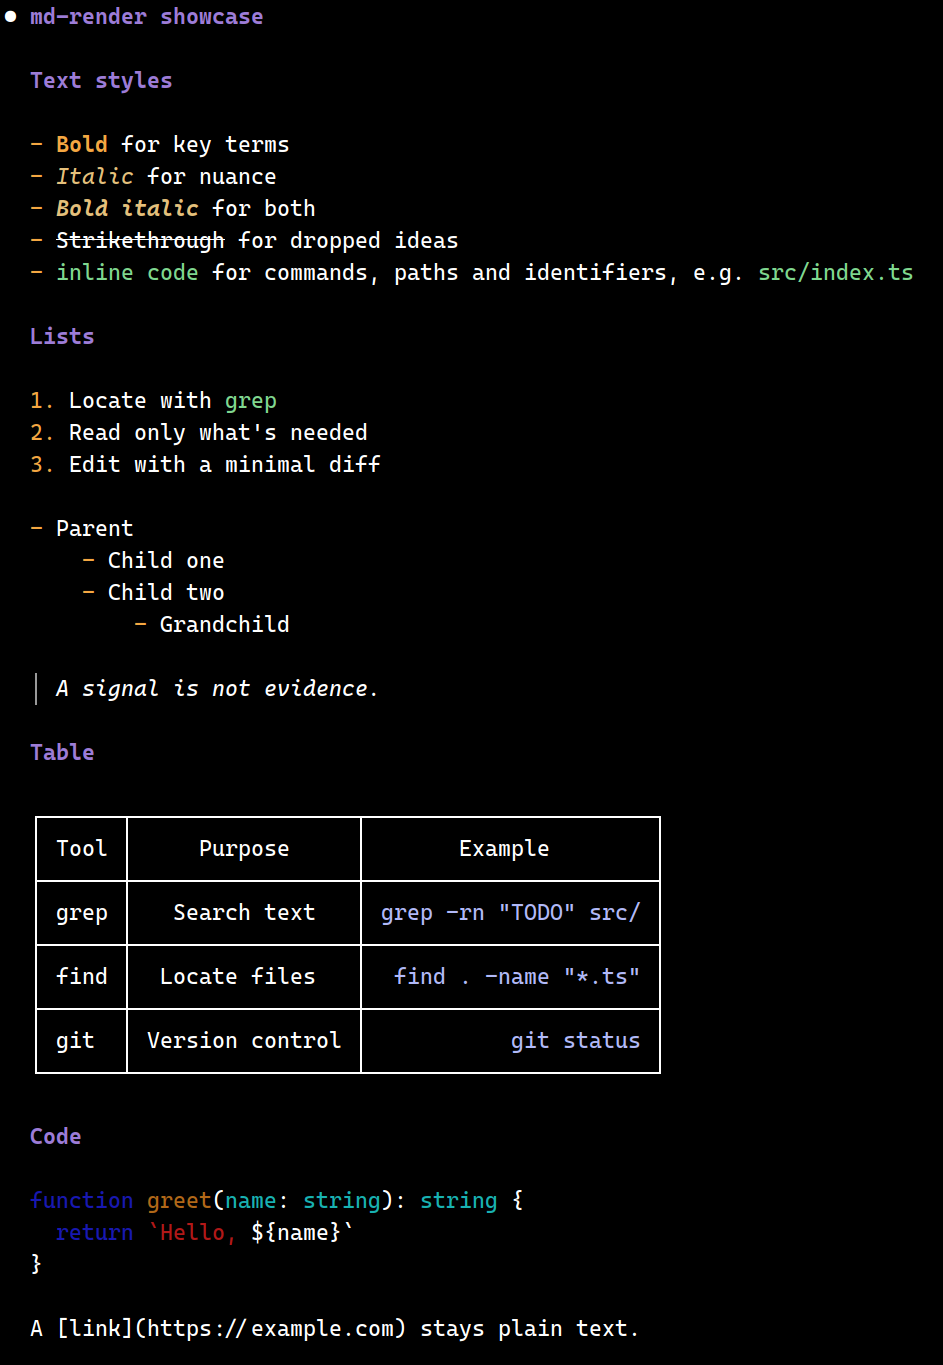
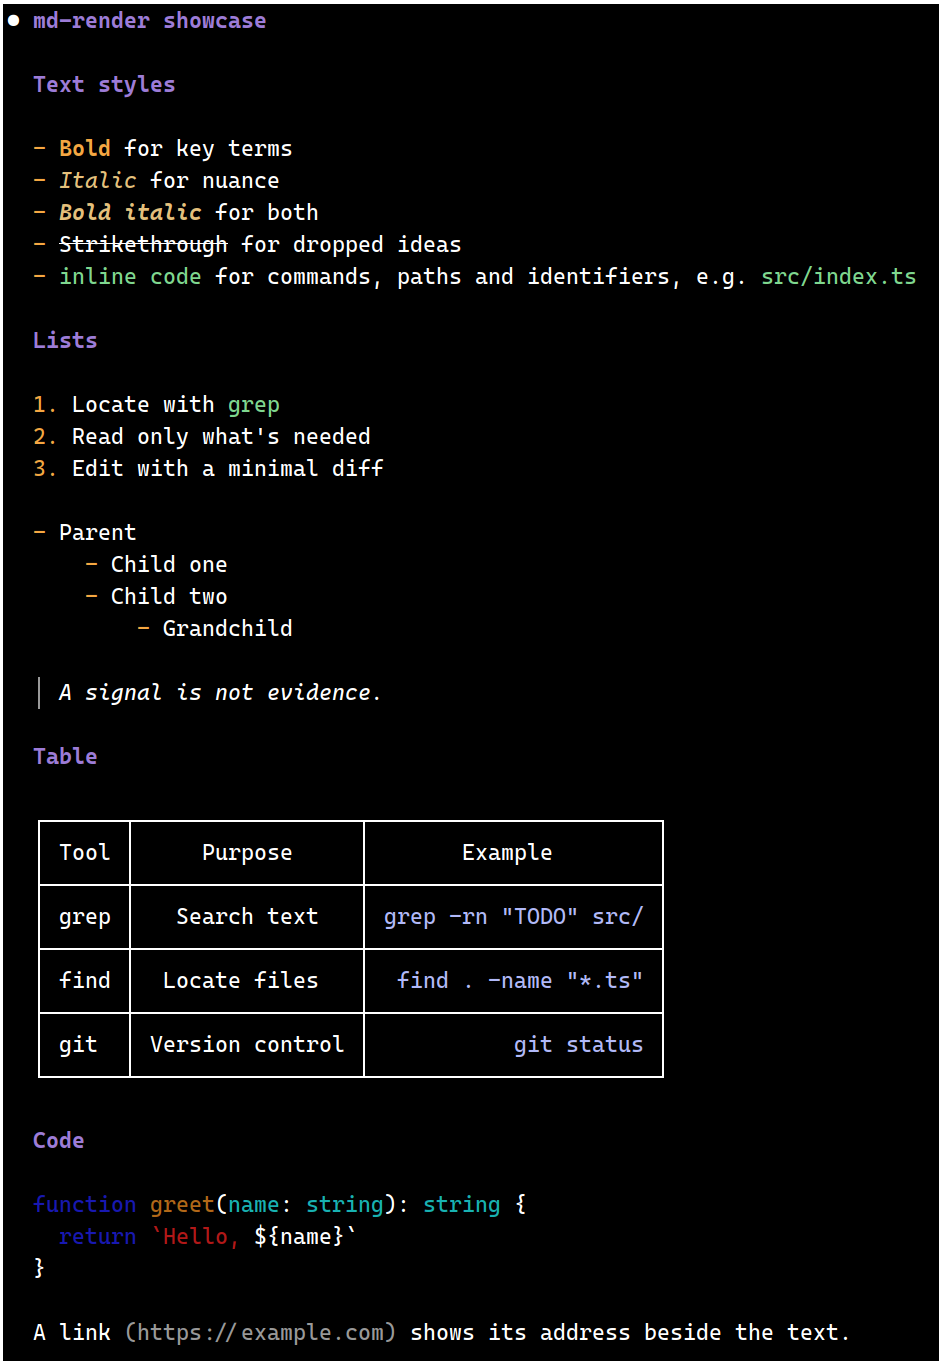
docs: update the showcase for links

Changed region(s): [[0.0, 0.0, 1.0, 1.0], [0.1845, 0.6154, 0.3383, 0.6769]]

diff --git a/README.md b/README.md
@@ -26,7 +26,8 @@ Both screenshots show the reply to "Print examples/showcase.md verbatim".
 | `- item`, `1. item` | orange markers, nested lists indented |
 | `> quote` | dim `│` bar, italic text |
 | fenced code, tables | drawn by Claude Code's own renderer (syntax highlighting, wrapping) |
-| links, images, anything else | plain text |
+| `[text](url)` | the text followed by the dim address |
+| images, anything else | plain text |
 
 Unclosed `**`, `` ` ``, `~~`, or a fence (mid-stream) stay plain text until they close.
 If the message text can't be read or parsing throws, the default rendering is used.

diff --git a/examples/showcase.md b/examples/showcase.md
@@ -37,4 +37,4 @@ function greet(name: string): string {
 }
 ```
 
-A [link](https://example.com) stays plain text.
+A [link](https://example.com) shows its address beside the text.
